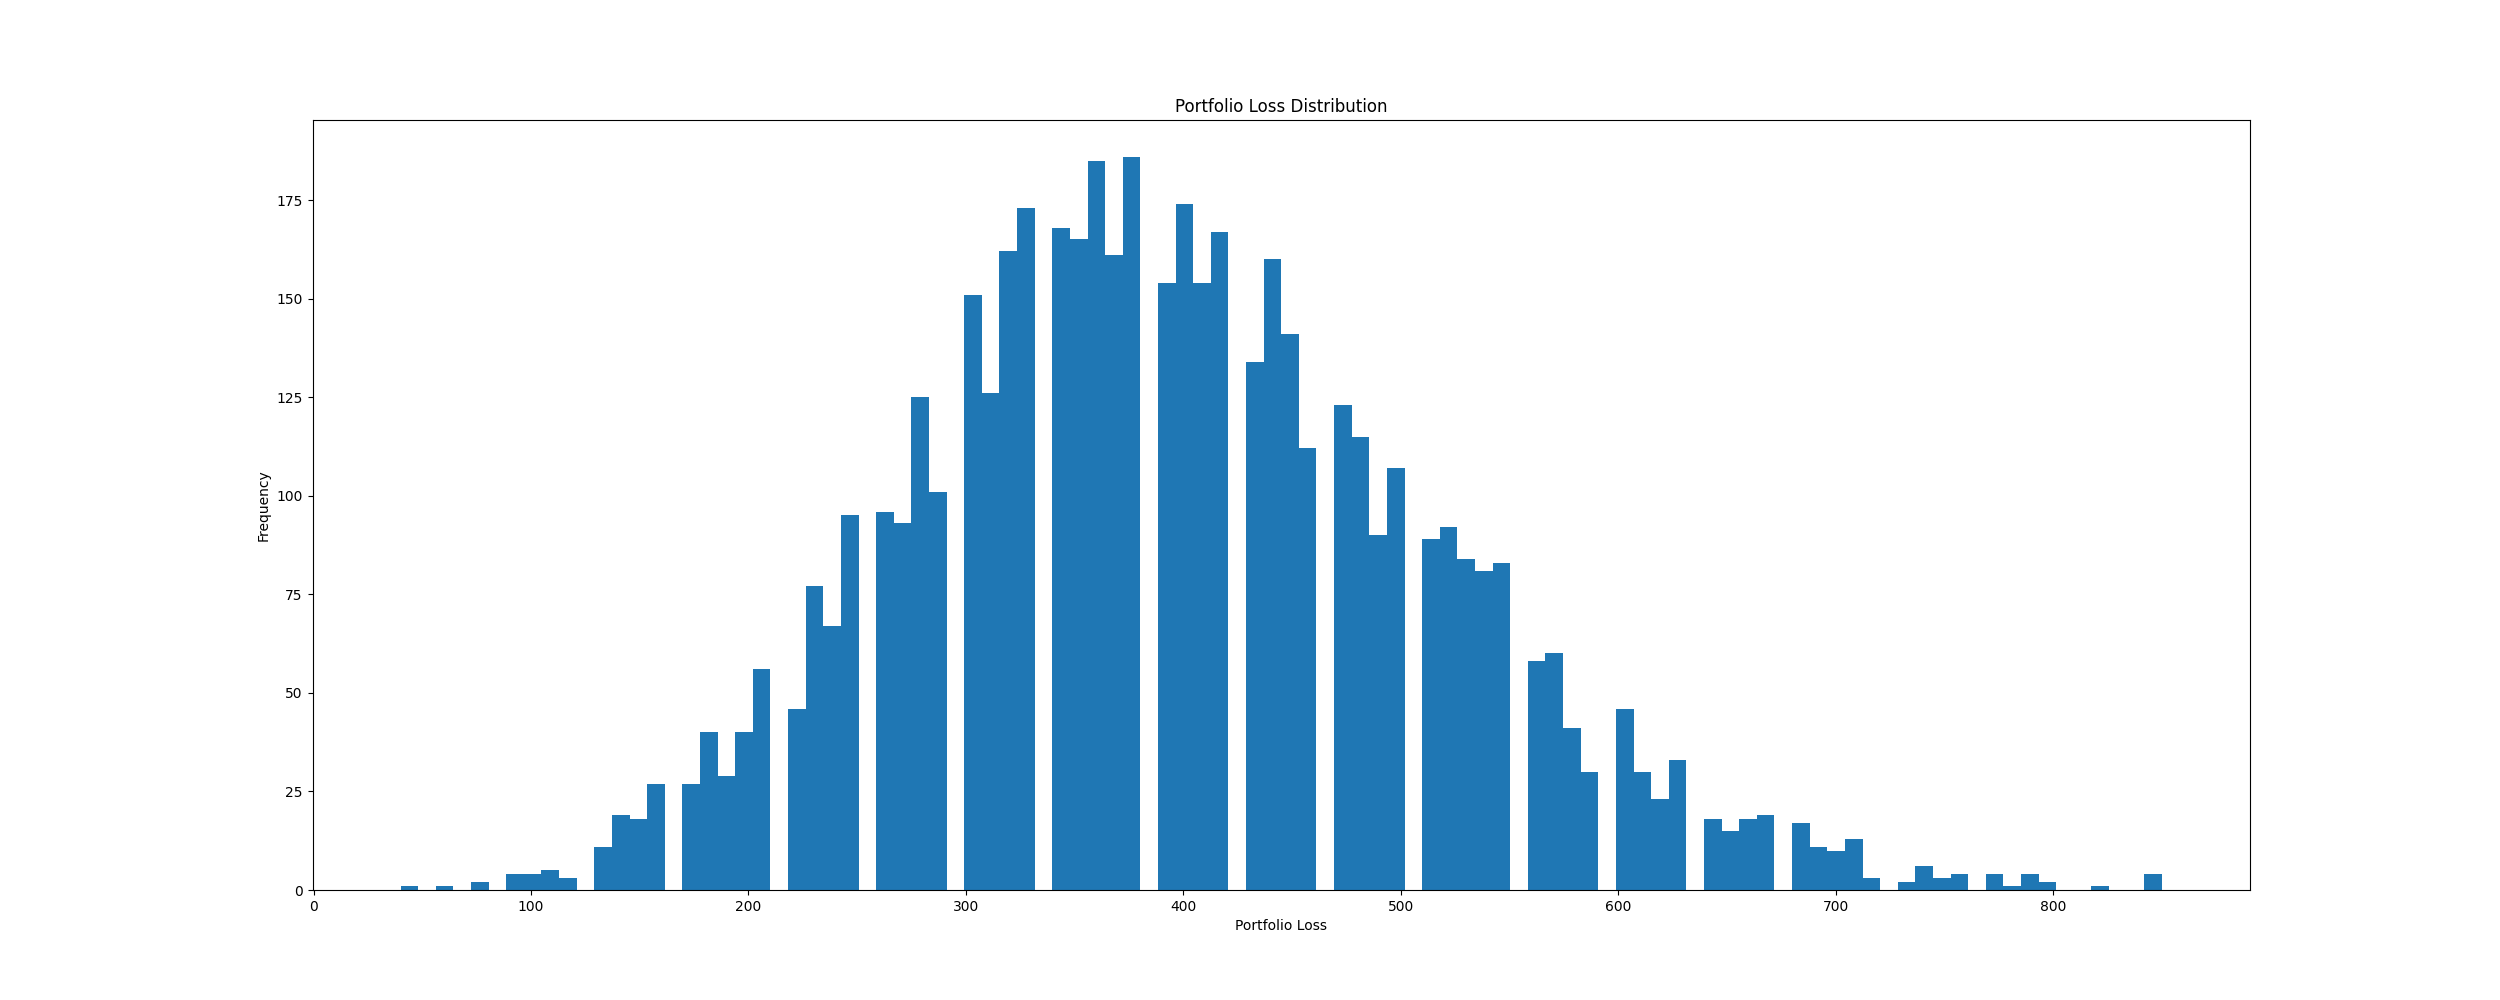
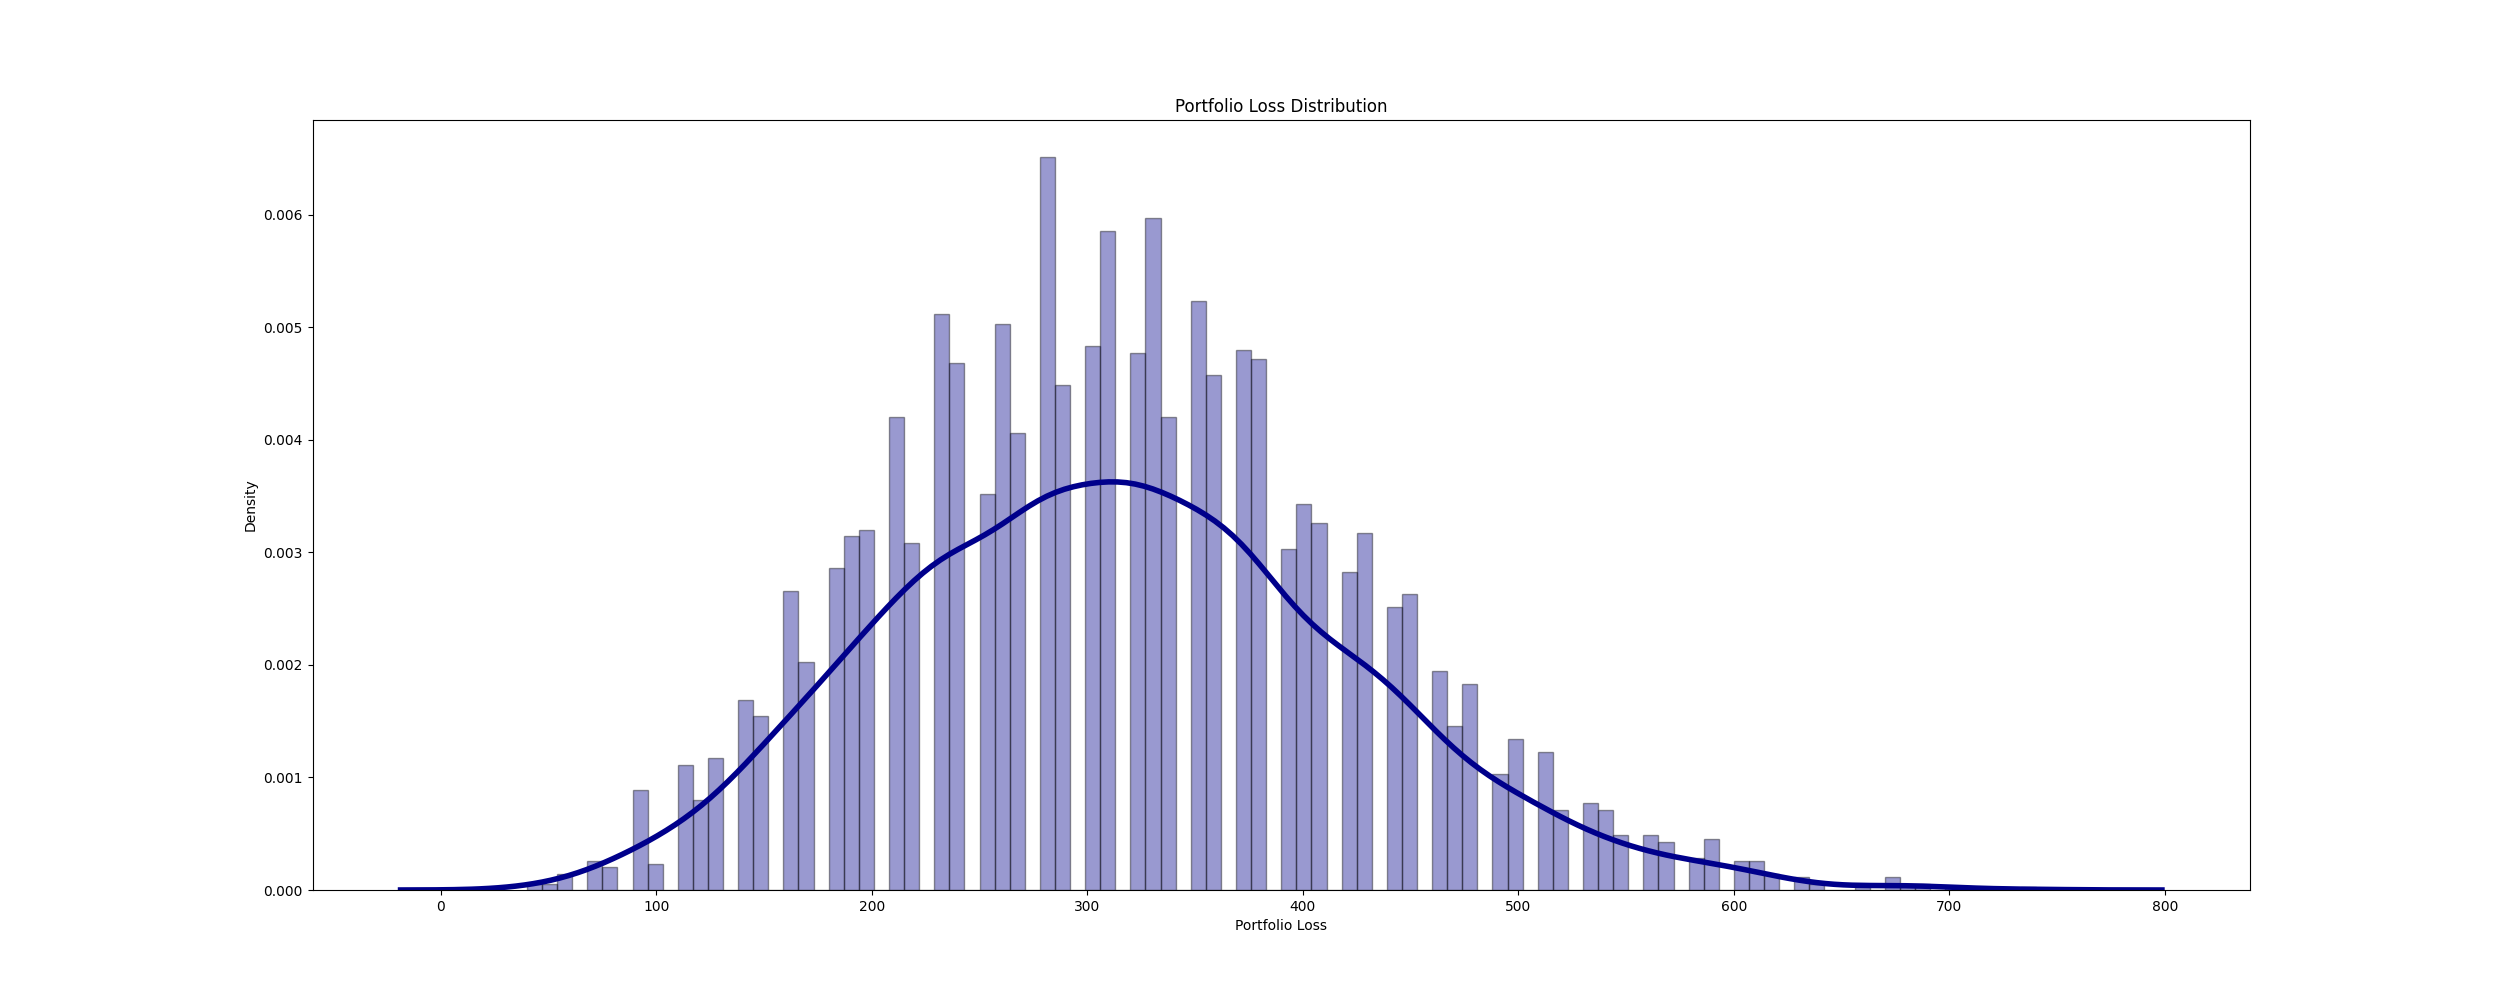
Updated distribution plot

Changed region(s): [[0.156, 0.155, 0.8736, 0.899], [0.0936, 0.465, 0.1248, 0.558], [0.0936, 0.186, 0.1248, 0.217]]

diff --git a/code/single_factor_model.py b/code/single_factor_model.py
@@ -4,6 +4,7 @@ import pandas as pd
 from numpy.random import normal
 from scipy.stats import norm
 import matplotlib.pyplot as plt
+import seaborn as sns
 
 
 HOME = os.getcwd()
@@ -47,9 +48,11 @@ for i in range(simulations):
     PORTFOLIO_LOSS.append(df['Loss'].sum())
 
 plt.figure(figsize=(25, 10))
-plt.hist(PORTFOLIO_LOSS, bins=100)
+# plt.hist(PORTFOLIO_LOSS, bins=100)
+sns.distplot(PORTFOLIO_LOSS, hist=True, kde=True, bins=100,
+             color='darkblue',  hist_kws={'edgecolor': 'black'}, kde_kws={'linewidth': 4})
 plt.xlabel('Portfolio Loss')
-plt.ylabel('Frequency')
+plt.ylabel('Density')
 plt.title('Portfolio Loss Distribution')
 plt.savefig(os.path.join(HOME, 'export', 'portfolio_loss_distribution.png'))
 plt.show()
